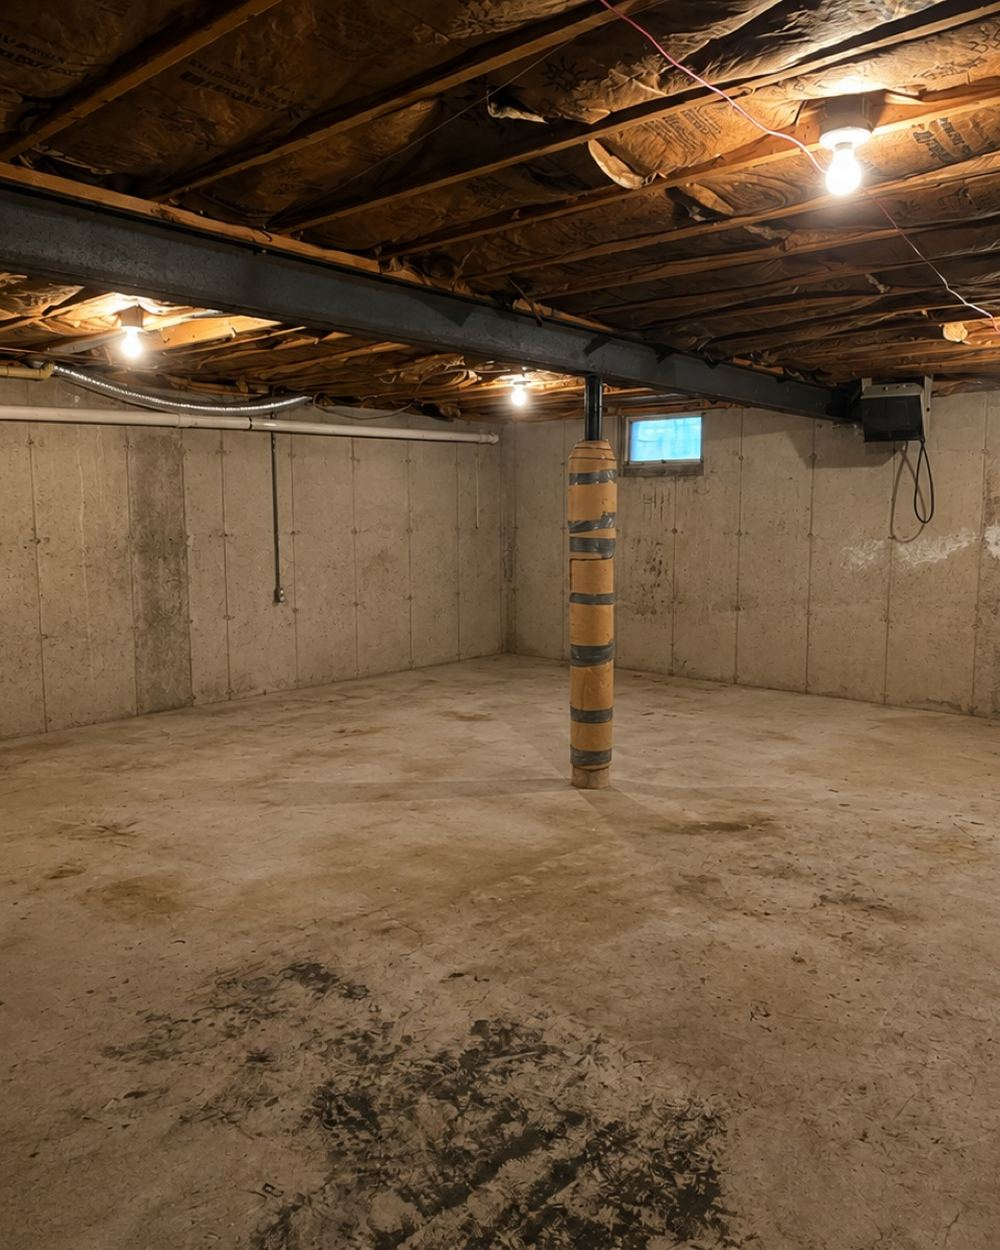
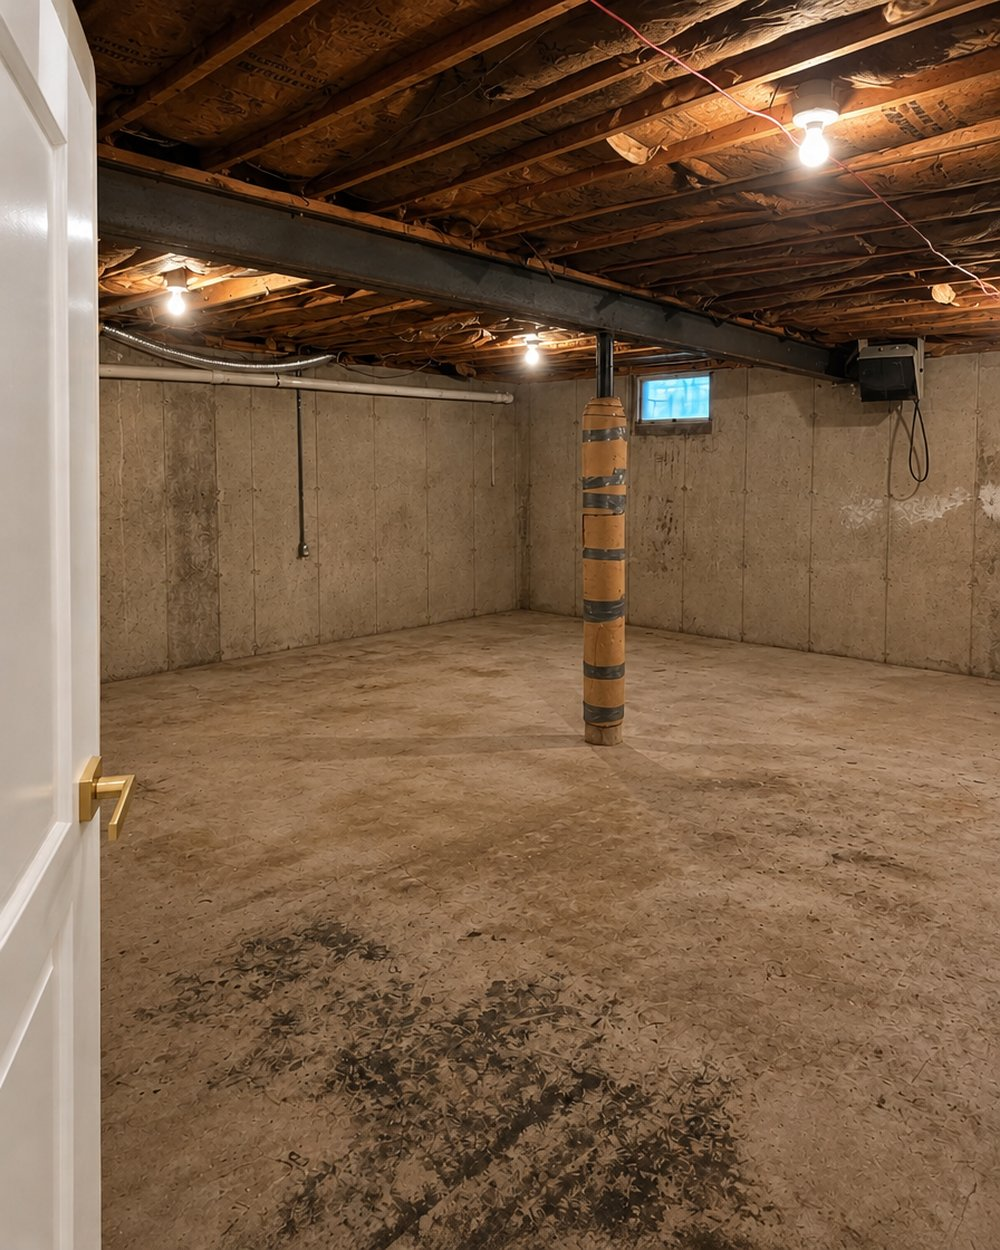
Before and after: every pair re-shot from a better angle
All six pairs are regenerated from the original job photos: the
after re-photographed wider and straighter like a real-estate shoot,
the before re-staged to the same camera so the slider overlays
perfectly. The lede now says the pairs are re-staged from our own
site photography, and Where We've Built opens with Explore some of
our work.

diff --git a/index.html b/index.html
@@ -33,8 +33,8 @@
       href="https://fonts.googleapis.com/css2?family=Archivo:wght@600;700;800&family=Inter:wght@400;500;600;700&display=swap"
       rel="stylesheet"
     />
-    <link rel="stylesheet" href="css/site.css?v=hand1" />
-    <link rel="stylesheet" href="css/upgrade.css?v=hand1" />
+    <link rel="stylesheet" href="css/site.css?v=hand2" />
+    <link rel="stylesheet" href="css/upgrade.css?v=hand2" />
     <script type="application/ld+json">
       {
         "@context": "https://schema.org",
@@ -651,8 +651,8 @@
             </h2>
           </div>
           <p class="tf__lede">
-            Real PSI jobs, photographed on site before and after. Nothing
-            staged, nothing retouched.
+            Real PSI jobs. Each pair is re-staged from our own on-site
+            photography of the same project.
           </p>
         </div>
         <div class="tf__grid">
@@ -710,9 +710,9 @@
       <div class="section__inner">
         <h2 class="section__title">Where We&rsquo;ve Built</h2>
         <p class="lede">
-          Discover some of our previous projects across Kingston, Wilkes-Barre,
-          West Pittston, and Exeter, PA. Click a pin on the map, or any
-          photograph, to open that job.
+          Explore some of our work across Kingston, Wilkes-Barre, West Pittston,
+          and Exeter, PA. Click a pin on the map, or any photograph, to open
+          that job.
         </p>
 
         <div class="projects__layout">
@@ -1028,11 +1028,11 @@
       integrity="sha256-20nQCchB9co0qIjJZRGuk2/Z9VM+kNiyxNV1lvTlZBo="
       crossorigin=""
     ></script>
-    <script src="js/hero.js?v=hand1" defer></script>
-    <script src="js/main.js?v=hand1" defer></script>
-    <script src="js/process.js?v=hand1" defer></script>
-    <script src="js/transform.js?v=hand1" defer></script>
-    <script src="js/upgrade.js?v=hand1" defer></script>
+    <script src="js/hero.js?v=hand2" defer></script>
+    <script src="js/main.js?v=hand2" defer></script>
+    <script src="js/process.js?v=hand2" defer></script>
+    <script src="js/transform.js?v=hand2" defer></script>
+    <script src="js/upgrade.js?v=hand2" defer></script>
     <script type="application/ld+json">
       {
         "@context": "https://schema.org",
@@ -1105,6 +1105,6 @@
         ]
       }
     </script>
-    <script src="js/support.js?v=hand1" defer></script>
+    <script src="js/support.js?v=hand2" defer></script>
   </body>
 </html>

diff --git a/contact.html b/contact.html
@@ -16,7 +16,7 @@
       href="https://fonts.googleapis.com/css2?family=Archivo:wght@600;700;800&family=Inter:wght@400;500;600;700&display=swap"
       rel="stylesheet"
     />
-    <link rel="stylesheet" href="css/site.css?v=hand1" />
+    <link rel="stylesheet" href="css/site.css?v=hand2" />
   </head>
   <body style="background: var(--paper)">
     <nav class="nav nav--solid" aria-label="Primary">
@@ -147,6 +147,6 @@
 
     <script src="js/quote-data.js?v=a449cf9b"></script>
     <script src="js/quote.js?v=742b7f01" defer></script>
-    <script src="js/support.js?v=hand1" defer></script>
+    <script src="js/support.js?v=hand2" defer></script>
   </body>
 </html>
